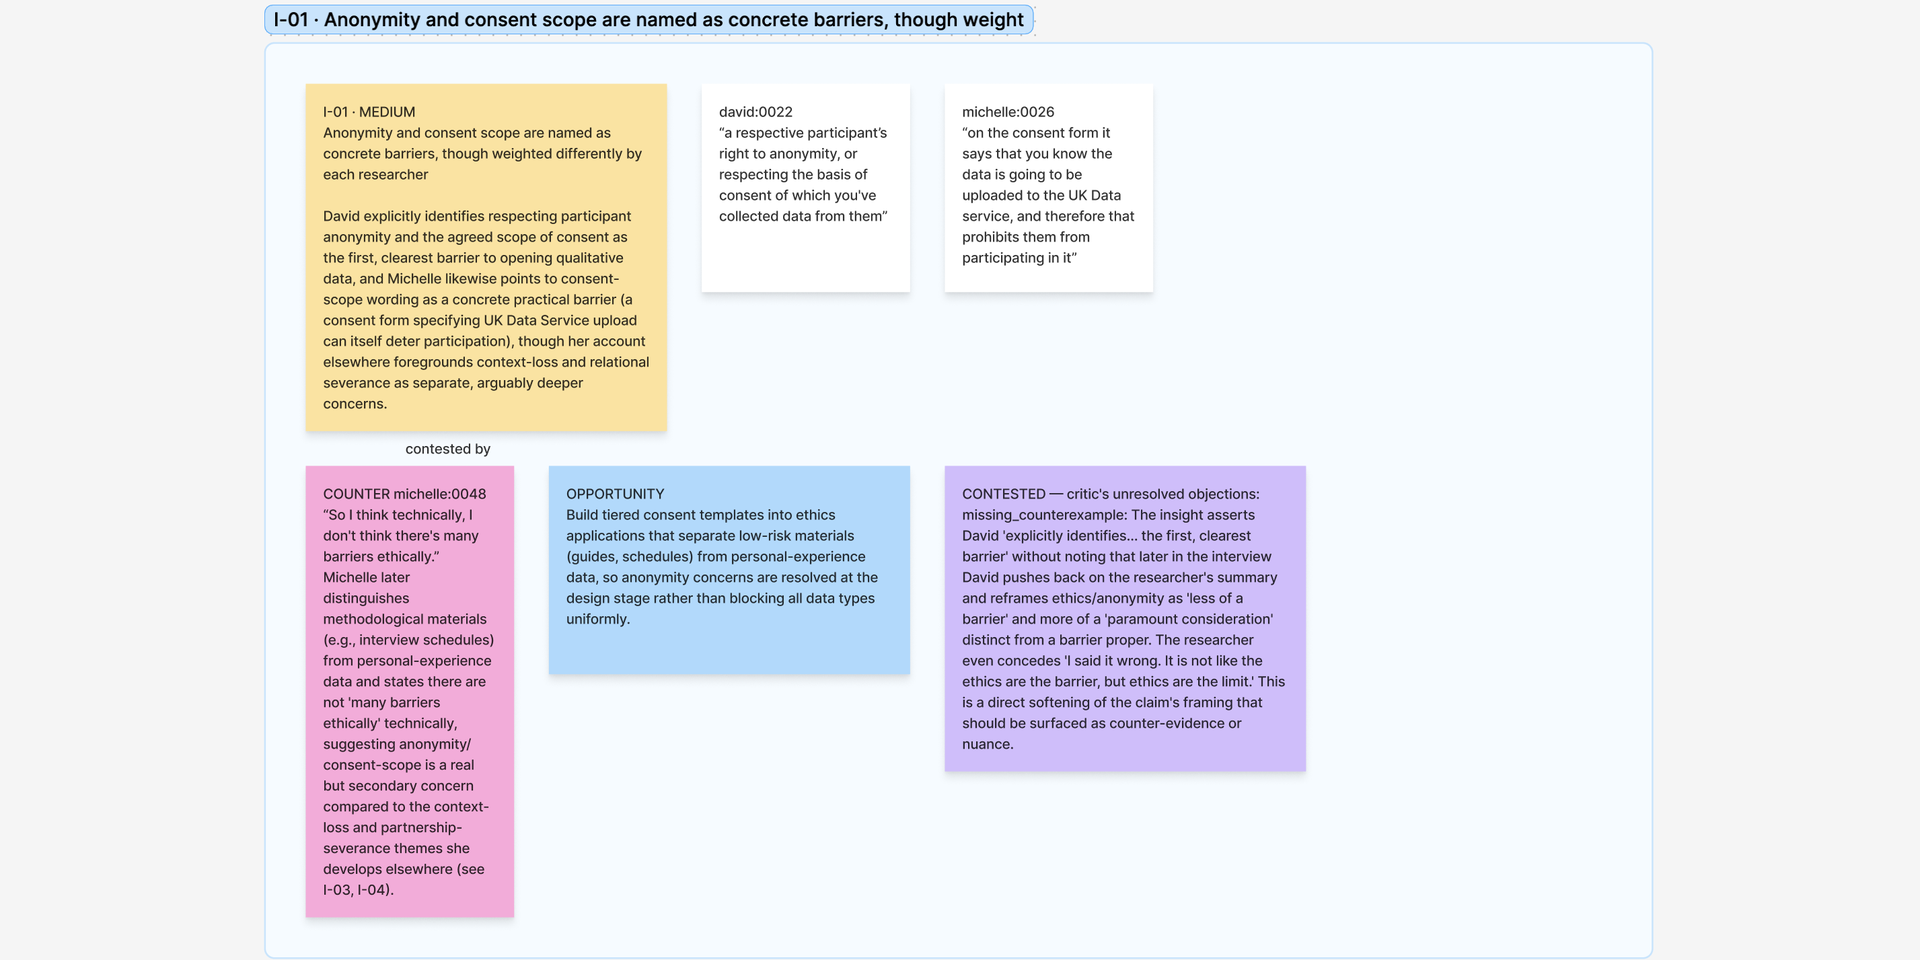
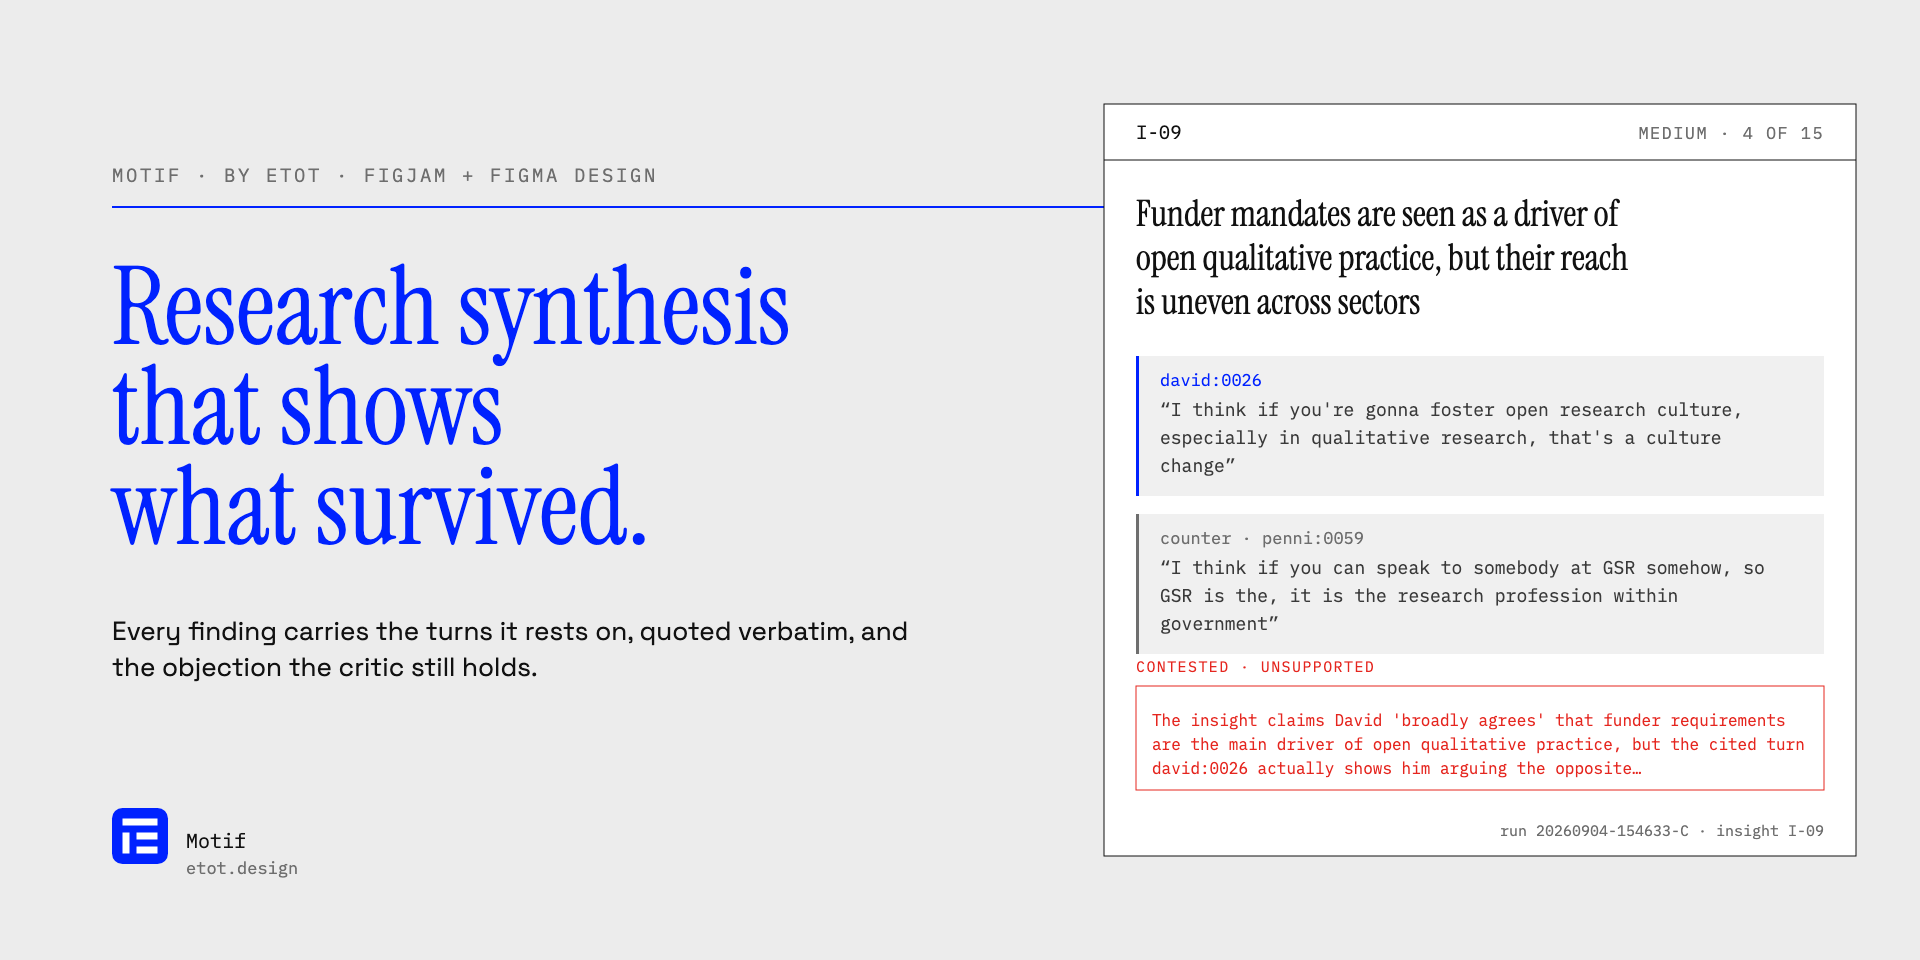
listing: cover and carousel PNGs, listing description, demo shot list, restyle spec

diff --git a/docs/specs/plugin-restyle.md b/docs/specs/plugin-restyle.md
@@ -1,0 +1,358 @@
+# Motif plugin — ETOT chassis restyle spec
+
+*For a Claude Code session in the Motif repo, run on **Claude Sonnet 5**. This is
+presentation only: no behavior changes, no copy changes, no DOM restructuring beyond
+the two additions named in §7. The four Version 2 UI fixes stay exactly as they are.*
+
+**Files this session touches:** `surfaces/figma/src/ui.html` (the `<style>` block, and
+the two markup additions in §7), `surfaces/figma/src/ui.ts` (nothing but the two lines
+in §7), `surfaces/figma/src/code.ts` (one option, §2), and the build step for the fonts
+(§3). Nothing else.
+
+**Source of truth for every value below:** `etot-site/tokens.json`, version 0.1.0,
+updated 2026-09-04. Hex values are copied from it. Where this spec sets a number that
+is *not* in `tokens.json` — the panel type scale, spacing, radii — it says so and gives
+the reason.
+
+---
+
+## 1. What "on the chassis" means here, and one deviation
+
+The chassis is the ETOT site's CSS: ETOT blue as the only accent, Instrument Serif for
+display, Space Grotesk for body, IBM Plex Mono for ids and receipts, hairline rules,
+light and dark.
+
+**The deviation, stated up front:** the chassis type scale in `tokens.json` (`body:
+17px`, `h1: clamp(56px,9.4vw,124px)`) is written for an 1180 px shell. The plugin panel
+is 440 px at its default and 320 px at its narrowest. Those sizes would break the layout
+at every width. So the panel takes the chassis's **typefaces, colors, hairlines, and
+rules** and uses **its own scale**, defined in §4. This is the only place the panel
+departs from `tokens.json`, and it should be recorded in the notes as such.
+
+---
+
+## 2. Theme: follow Figma, not the OS
+
+Figma exposes its own theme to a plugin iframe only when the UI is opened with theme
+colors on. In `code.ts`, wherever `figma.showUI` is called, add `themeColors: true` to
+the options object. Figma then puts a `figma-dark` class on the iframe's `<html>` when
+the editor is in dark mode.
+
+Do not use `prefers-color-scheme` as the primary switch — that follows the OS, and
+Figma's theme is set independently of it. Use it only as the harness fallback, since
+`test/harness.html` has no Figma parent:
+
+```css
+:root { /* light values, §3 */ }
+html.figma-dark { /* dark values */ }
+@media (prefers-color-scheme: dark) {
+  html:not(.figma-light) { /* dark values — harness only */ }
+}
+```
+
+If `figma.showUI` cannot take the option in the current call shape, stop and report it
+rather than working around it; the whole dark theme rests on that class.
+
+---
+
+## 3. Tokens
+
+Declare these once at the top of the `<style>` block. Names match `tokens.json` so the
+mapping is checkable by eye.
+
+```css
+:root {
+  --bg:#ECECEC; --ink:#111111; --ink2:#3A3A3A; --mute:#6E6E6E;
+  --hair:#111111; --panel:#F6F6F6; --panel2:#FFFFFF;
+  --acc:#0022FF; --accink:#FFFFFF; --red:#E5261F;
+  --strip:rgba(17,17,17,.10); --code:#F0F0F0;
+}
+html.figma-dark {
+  --bg:#0A0A0A; --ink:#F2F2F2; --ink2:#C9C9C9; --mute:#8A8A8A;
+  --hair:#F2F2F2; --panel:#141414; --panel2:#1B1B1B;
+  --acc:#5C79FF; --accink:#0A0A0A; --red:#FF5A4E;
+  --strip:rgba(242,242,242,.10); --code:#101010;
+}
+```
+
+**Never `#0022FF` on the dark panel.** It measures 1.78 : 1 on Figma's dark chrome; that
+is why `tokens.json` carries a separate dark accent. `--acc` handles this as long as
+nothing hardcodes blue.
+
+**Hairlines carry the identity.** `--hair` is full ink, used at 1 px. Cards, the mode
+switch, the drop zone, and the tiles get a 1 px `--hair` border, not a shadow and not a
+gray. This is the single change that makes the panel stop reading as a default Figma
+plugin.
+
+### Fonts — embed, do not fetch
+
+`manifest.json` allow-lists `https://motif-hosted.fly.dev` and nothing else, and the
+published listing's data-security answer says network requests go only there. Loading
+Google Fonts would change both, and would add a third-party request to every user's
+session.
+
+So: subset the three families to Latin, convert to `woff2`, base64 them into `dist/ui.html`
+as `@font-face` `src: url(data:font/woff2;base64,…)` at build time in the esbuild step.
+Weights needed: Instrument Serif 400; Space Grotesk 400 and 500; IBM Plex Mono 400 and
+500. Keep the fallback stacks from `tokens.json` on every `font-family` declaration.
+
+```css
+--serif:'Instrument Serif','Times New Roman',Times,serif;
+--sans:'Space Grotesk','Helvetica Neue',Arial,sans-serif;
+--mono:'IBM Plex Mono','SFMono-Regular',Consolas,monospace;
+```
+
+Report the resulting `dist/ui.html` size. It is 33 KB today; if the embed takes it past
+about 400 KB, subset harder (drop unused weights) rather than accepting it silently.
+
+---
+
+## 4. Panel type scale
+
+Panel-specific, not from `tokens.json`. `rem` is avoided — Figma's iframe root size is
+not ours to assume.
+
+| Role | Selector | Size / line | Family | Weight | Color |
+|---|---|---|---|---|---|
+| Screen title | `.top h1` | 26px / 1.15 | serif | 400 | `--ink` |
+| Screen title, compact | `.top.compact h1` | 22px / 1.15 | serif | 400 | `--ink` |
+| Lede | `.lede` | 14px / 1.45 | sans | 400 | `--ink2` |
+| Keyline | `.keyline` | 12px / 1.4 | mono | 400 | `--mute` |
+| Card heading | `.card h2` | 13px / 1.3, `letter-spacing:.06em`, uppercase | mono | 500 | `--ink` |
+| Body | `p`, `li`, `label` | 13px / 1.5 | sans | 400 | `--ink2` |
+| Fine | `.fine` | 12px / 1.45 | sans | 400 | `--mute` |
+| Mono inline | `.mono` | 12px / 1.4 | mono | 400 | inherit |
+| Insight title | `summary .title` | 13px / 1.35 | sans | 500 | `--ink` |
+| Insight id | `summary .id` | 12px | mono | 400 | `--mute` |
+| Tile number | `.tile .num` | 22px / 1 | serif | 400 | `--ink` |
+| Tile label | `.tile .lbl` | 10px, `letter-spacing:.08em`, uppercase | mono | 400 | `--mute` |
+| Log | `.log` | 11.5px / 1.55 | mono | 400 | `--ink2` |
+| Quote | `.quote` | 12px / 1.5 | mono | 400 | `--ink2` |
+
+At 320 px, body drops to 12.5px and `.top h1` to 22px; nothing else changes. One media
+query at `max-width:360px`.
+
+The card headings are numbered in the markup ("1. Transcripts", "2. Question", "3. Run").
+Set them in mono uppercase and the numbering reads as a sequence rather than as headings
+that happen to start with digits. Do not change the strings.
+
+---
+
+## 5. Components, one by one
+
+Every selector below already exists in `ui.html` or is generated by `ui.ts`. Nothing new
+is invented except where §7 says so.
+
+**`body` / `.app`** — background `--bg`, color `--ink`, font `--sans`, 16px padding
+(12px at 320). `-webkit-font-smoothing: antialiased`.
+
+**`.screen`** — flex column, 14px gap.
+
+**`.top`** — `h1` and a lede or keyline. `.top.compact` adds a 1 px `--strip` rule
+beneath it with 10px clearance, which is the chassis's header strip at panel scale.
+
+**`.card h2`** — mono 12px, `--ink`, `letter-spacing:.02em`, with an accent section dot
+in front: `h2::before{content:"\\25CF  ";color:var(--acc)}`. That is the chassis
+`.sechead .n` device. The strings ("1. Transcripts") do not change; the dot is CSS only.
+
+**`.mono`** — the inline code chip, chassis `code` rule: mono `.88em`, background
+`--code`, 1 px `--hair` border, padding 0 4px. This covers `Interviewer`, `Researcher`,
+`michelle:0042`, and the masked key in the keyline.
+
+**`.card`** — background `--panel`, 1 px `--hair` border, radius 4px, padding 12px, 8px
+internal gap. **Keep `display:flex; flex-direction:column`, and keep
+`[hidden]{display:none!important}`.** That rule is load-bearing: without it the resume
+card shows on every first open. It is the stage-2 harness bug; do not lose it in a
+rewrite of the block.
+- `.card.notice` — left border 3px `--acc`, otherwise the same.
+- `.card.error` — background `--panel2`, left border 3px `--red`; `#error-text` in
+  `--mono` 12px, `--ink2`, `overflow-wrap:anywhere`. The engine's message must stay
+  legible and unstyled beyond that; it is quoted verbatim by design.
+- `.card.grow` — `flex:1 1 auto; min-height:0` so the log can scroll inside it.
+
+**`.field`** — label `span` in mono 11px uppercase `--mute`, 4px above the control.
+`input`, `textarea`: background `--panel2`, 1 px `--hair` border, radius 3px, padding
+8px 10px, font `--sans` 13px, color `--ink`. `::placeholder` `--mute`. `textarea`
+`resize:vertical`. `#key-input` and `#document` take `--mono` instead, since both hold
+machine text.
+
+**Focus** — one rule for every interactive element: `outline:2px solid var(--acc);
+outline-offset:2px`, on `:focus-visible` only. Remove any default Figma-blue focus ring.
+
+**`.primary`** — background `--acc`, color `--accink`, no border, radius 3px, padding
+9px 14px, font `--sans` 13px/500. `:hover` 92% opacity. `:disabled` background `--acc`
+at 35% opacity with `--accink` text, `cursor:not-allowed`. `.primary.wide` is full width.
+
+**`.ghost`** — transparent background, 1 px `--hair` border, `--ink` text, same metrics
+as `.primary`.
+
+**`.link`, `.textbtn`, `.filebtn`** — `--acc` text, underline with `text-underline-offset:2px`,
+no background. `.filebtn` keeps its hidden file input.
+
+**`.modes`** — a two-up switch, 1 px `--hair` border, radius 3px, no gap between the two
+buttons, a 1 px `--hair` divider between them. `.mode` transparent, `--ink2`, mono 12px.
+`.mode.on` background `--acc`, color `--accink`. This replaces the purple pill.
+
+**`.drop`** — background `--panel2`, 1 px dashed `--hair` at 45% opacity, radius 3px,
+padding 18px, centered, `--mute` text. `.drop.over` — border solid `--acc`, background
+`--panel2`, and that is all: no scale or shadow.
+
+**`.files`** — list, no bullets. Each `li` is a 3-column grid (`1fr auto auto`), 8px gap,
+9px vertical padding, 1 px `--hair` bottom border at 20% opacity, last child none.
+`.name` sans 13px `--ink`, `text-overflow:ellipsis`. `.meta` mono 11px `--mute`,
+`font-variant-numeric:tabular-nums`. `.meta.bad` color `--red`. `.rm` is a 20px square
+ghost button, `--mute`, `--red` on hover.
+
+**`.tiers`** — `fieldset`, no border, no padding, row with 16px gap. `.tier` label row,
+sans 13px. Set `accent-color: var(--acc)` on the radios so the dot is ETOT blue, not
+Figma blue. `.tier.disabled` stays hidden as it is; do not unhide it.
+
+**`.log`** — the chassis `.term` rule: mono 12px/1.55, background `--code`, padding
+14px 16px, color `--ink2`, and **no border** — the code background is the whole device.
+Two panel deviations, both stated: `white-space:pre-wrap` with `overflow-wrap:anywhere`
+instead of the site's `pre` plus horizontal scroll, because a 320 px panel cannot scroll
+sideways usefully; and `overflow-y:auto` with `max-height:260px`. At 320 the chassis
+already drops to 11px with 12px padding — match that. Nothing animated. The log is the
+one place the panel should look like a machine talking.
+
+**`.tiles`** — built exactly like the chassis `.stats` grid: a 1 px `--hair` border
+around the whole block, background `--panel2`, children carrying right and bottom
+`--hair` borders with `margin:0 -1px -1px 0` so the rules collapse, and `overflow:hidden`
+on the container. No gap. Column count from the existing `data-n`: 5 tiles at 440 is
+`repeat(5,1fr)`; at 375 and 320 use `repeat(3,1fr)` and let it wrap. Verdict results
+render 6 tiles — handle `data-n="6"` as `repeat(3,1fr)` at every width. Do not change how
+`ui.ts` sets `data-n`.
+
+**`.tile`** — padding 10px 8px, centered, `.num` above `.lbl`. The number is serif in
+`--acc`, which is what `.stats b` does on the site. `.tile.warn .num` is `--red`.
+That follows the chassis ledger convention — `.ledger b` is red for an open item and
+`.ledger b.ok` is accent for a closed one — so a contested count and a FAIL verdict read
+as open, not as an amber alarm.
+
+**`.insight`** (`details`) — background `--panel`, 1 px `--hair` border, radius 3px.
+`summary` is a grid (`auto 1fr auto`), 8px gap, 10px 12px padding,
+`cursor:pointer`, `list-style:none` plus `::-webkit-details-marker{display:none}`, and a
+chevron drawn with a CSS triangle in `--mute` that rotates on `[open]`. `.body` padding
+0 12px 12px, 6px gap, 1 px `--strip` top rule.
+
+**`.badge`** — the confidence chip. This is the chassis `.conf` rule, unchanged:
+`display:inline-block`, 1 px `--hair` border, mono 11px, padding 1px 7px, no radius.
+The chassis has two states, not four, so the panel has two:
+- `.badge.high` — background `--acc`, color `--accink`, border-color `--acc`. This is
+  `.conf.hi` exactly.
+- `.badge.medium`, `.badge.low` — the default outline. Text color `--ink` for medium,
+  `--mute` for low. That one-token difference is the only extension, and it is needed
+  because the panel shows both states side by side in a list where the site shows one
+  at a time.
+- `.badge.contested` — the chassis `.flag` colors on the chip shape: 1 px `--red`
+  border, `--red` text, transparent background. Lowercase, as `ui.ts` writes it.
+
+Do not invent an accent-outlined middle state; the chassis does not have one.
+
+Keep the chip's `title` attribute and its `low · 1 of 2` text exactly as `ui.ts`
+generates them. That wording came from Eric's stage-2 Figma run and is not up for
+restyling.
+
+**`.quote`** — the receipt, and this is the chassis `.rcpt` rule: mono 12.5px/1.5,
+background `--code`, `border-left:2px solid var(--acc)`, padding 6px 10px, margin 6px 0,
+`overflow-wrap:anywhere`. Note the background is `--code`, not `--panel2`. On the site
+the turn id is set in `--acc` (`.rcpt .id`); here the id and the quote arrive from
+`ui.ts` as one string, so the whole line takes `--ink2` and the accent stays on the left
+rule. Do not split the string to color the id.
+
+Counter-evidence on the site is `.rcpt.ctr`, the same block with
+`border-left-color:var(--mute)`. `ui.ts` currently renders `counter_note` as a `.fine`
+paragraph, not as a receipt, so there is nothing to restyle — leave it as `.fine` and do
+not reach into `ui.ts` to change it.
+
+**`.opp`** — the chassis has no opportunity component. Panel-only, and marked as such:
+sans 12px, `--ink2`, `border-left:2px solid var(--hair)`, padding-left 10px. Full ink
+rather than accent or mute, so it sits clear of the receipt (accent) and the counter
+(mute).
+
+**`.flags`** — the chassis `.flag` rule: `display:block`, 1 px `--red` border, `--red`
+text, mono 11px/1.5, padding 6px 9px, margin-top 8px, `overflow-wrap:anywhere`. A
+bordered block, not a line of red text.
+
+**`.clip`** — the copy-fallback textarea. Background `--code`, 1 px `--hair` border, mono
+11.5px, `--ink2`, full width, `resize:vertical`.
+
+**`#critic-notes`** — reuses `.insight`; no separate rule.
+
+**`.visually-hidden`** — keep whatever clip-rect implementation is there. Do not
+replace it with `display:none`.
+
+---
+
+## 6. Motion
+
+`transition: background-color .12s, border-color .12s, opacity .12s` on buttons and the
+mode switch. Nothing else animates. Wrap the lot in
+`@media (prefers-reduced-motion: reduce) { *{transition:none!important} }`.
+
+---
+
+## 7. The only two markup/script additions
+
+Both are presentational and neither changes a code path.
+
+1. **A theme class hook.** If `code.ts` cannot supply `themeColors`, add nothing and
+   report; do not invent a toggle. The panel has no theme control of its own — it
+   follows Figma, per the brief.
+2. **`summary` chevron.** Pure CSS on `summary::after`. No element added, no listener.
+
+If applying this spec seems to need any other markup change, stop and report it instead.
+
+---
+
+## 8. QA gate
+
+Nothing is reported as done until all of this has run and its counts are in the notes.
+
+1. `test/harness.html` at **440, 375, and 320 px**, in **both themes** (add
+   `?harness&theme=dark` or set the class by hand in the harness page — harness-only,
+   not shipped), across **every screen**: key; setup with two transcripts added; setup
+   in critique mode with a report pasted; setup with the run button disabled and the
+   `#run-why` line showing; running with ingest lines in the log; result from a stored
+   synthesis, collapsed and with insights expanded; result from a stored verdict with
+   objections open; the copy-fallback box revealed; error with the hint.
+2. For each: element rectangles against the viewport, `scrollWidth` against
+   `clientWidth`, and page horizontal scroll. **Zero issues at every width in both
+   themes** is the bar, the same one stage 2 and stage 3 met.
+3. **The resume-card check.** Open the harness with no run in flight and confirm the
+   "A run is still going from last time" card is not visible. This is the bug the
+   `[hidden]` rule fixes and the one most likely to come back in a CSS rewrite.
+4. **Fonts render offline.** Load the harness with the network disabled and confirm
+   Instrument Serif, Space Grotesk, and IBM Plex Mono all render — not the fallbacks.
+5. **Contrast**, computed not eyeballed, on both themes: `--ink` on `--panel`, `--ink2`
+   on `--panel`, `--mute` on `--panel`, `--accink` on `--acc`, `--acc` on `--panel`,
+   `--red` on `--panel`. Report each ratio. Anything under 4.5 : 1 for body text or
+   3 : 1 for the chips is a failure, not a note.
+6. Screenshots of every screen at every width in both themes into
+   `docs/exhibits/stage4-restyle/`, **cropped to the panel**, no menu bar, no tabs, no
+   clock, no avatar, no key fragment. Raw captures do not enter the repo.
+7. `dist/ui.html` size reported before and after.
+8. The Figma run itself is Eric's, not this session's: development plugins load only in
+   the desktop app, so the panel in Figma at both themes is a hand check, logged in
+   `docs/part3-notes.md` before the restyle is called done.
+
+## 9. Notes and log
+
+Append to `docs/part3-notes.md` as you go — one dated line per decision, surprise,
+failure, or number, with the file path for every number — and a dated tried / happened /
+next entry to `docs/log.md`. Commit in the Motif repo only.
+
+---
+
+## 10. Reconciliation — done
+
+`etot-site/chassis.py` was read and it wins over `tokens.json` wherever the two differ.
+It changed five things above, all now folded in: the receipt background is `--code` not
+`--panel2`; the terminal block has no border; the confidence chip has two states rather
+than four; the critic's objections are a bordered red block, not red text; and the tile
+numbers are serif accent with red for the open ones, on the ledger convention.
+
+Three panel-only extensions remain, each stated where it appears: the `medium`/`low`
+text-color split on the chip, the `.opp` rule the chassis has no component for, and the
+log's wrapping. Record those three in the notes as deviations, with this reason: the
+panel shows in one column, at 320 px, what the site shows across an 1180 px page.

diff --git a/docs/part3-notes.md b/docs/part3-notes.md
@@ -117,3 +117,4 @@ Running list of moments worth writing up for the part-3 case study (the hosted e
 - 2026-09-08 — Listing redesign: cover and five carousel frames replace the screenshot-derived assets, generated by `etot-site/scripts/listing.py` and exported to `surfaces/figma/listing/`. The cover carries insight I-09 from `runs/20260904-154633-C/output.json` because the section demonstrates the mechanism rather than describing it: its receipt is `david:0026`, and the critic's standing objection is that this exact turn shows him arguing the opposite of the claim.
 - 2026-09-08 — Vocabulary fix caught in review: a frame labelled the objection block CONTESTED while its body began `unsupported:`. Those are different terms — `unsupported` is the rule that fired (final verdict round lists `('I-09','unsupported','fail')`), contested is the state an insight ends in. Labels now name the rule; the body drops the duplicated prefix.
 - 2026-09-08 — Own-medicine moment: a draft frame carried an invented title for I-02 ("Anonymization is treated as necessary but never sufficient…") written from memory of the theme. The real title in `output.json` is "Standard anonymization often fails in small, niche, or high-profile samples." Caught by checking against the file, which is the whole method. Record-don't-reconstruct applies to the assets about the tool, not only to the case study.
+- 2026-09-08 — Export gotcha for the next tool's listing: Chrome's `--screenshot` will not reliably rasterize a bare `.svg` at a fixed size, so each frame is wrapped in a one-line HTML file with the `<img>` set to 1920×960 and the wrapper screenshotted instead. Headless Chrome on macOS also emits a wall of `CVDisplayLinkCreateWithCGDisplay failed` errors with no display attached; they are noise, and the PNGs verified at 1920×960 via `sips`.
